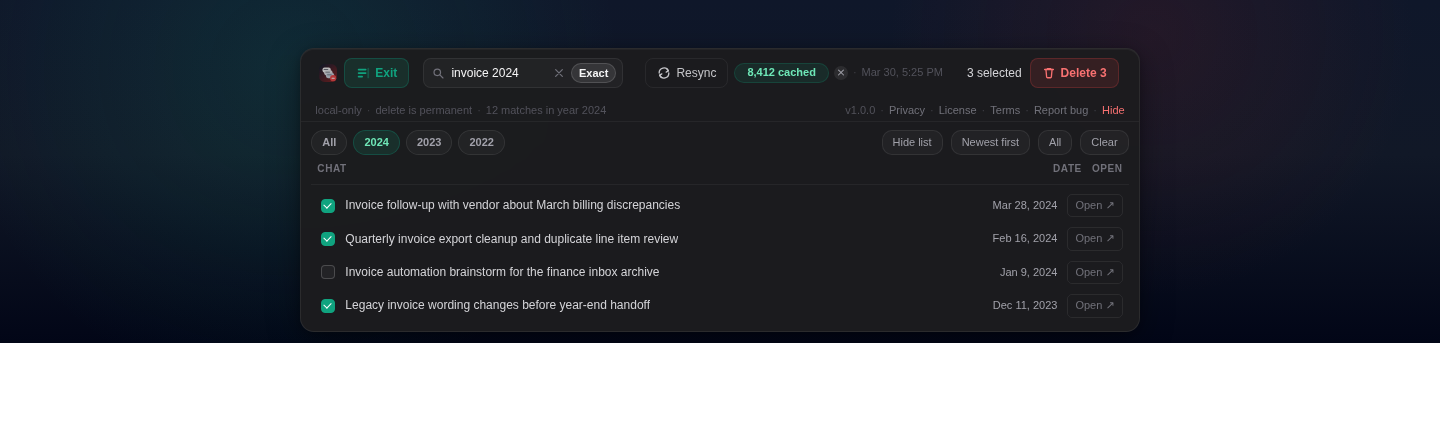
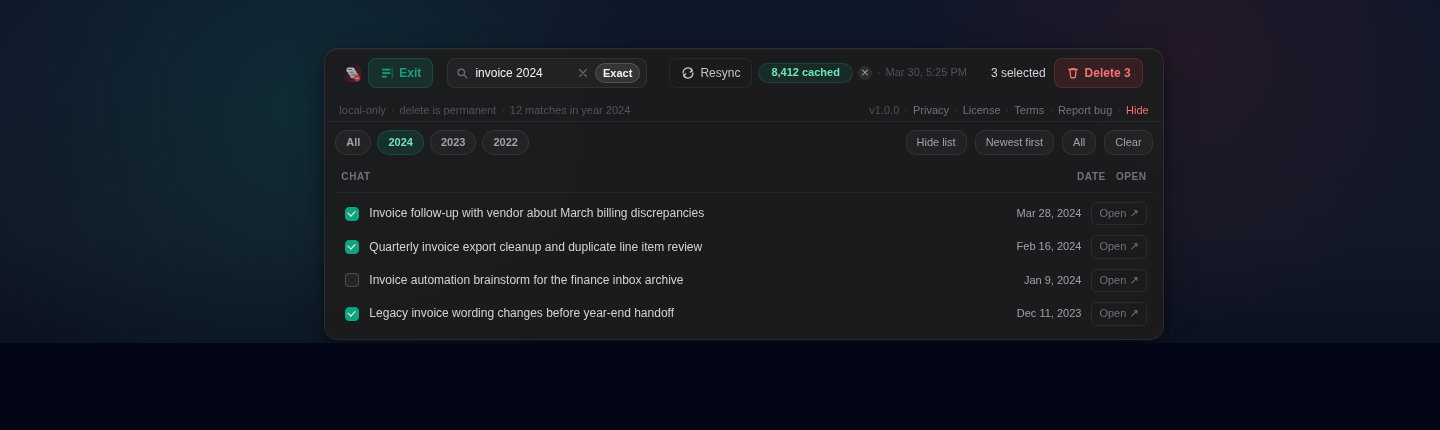
Update toolbar screenshot and enhance styling for improved visual consistency

diff --git a/docs/screenshot-fixtures/toolbar-shot.html b/docs/screenshot-fixtures/toolbar-shot.html
@@ -7,17 +7,26 @@
     <link rel="stylesheet" href="../../styles.css" />
     <style>
       html {
-        height: 100%;
+        width: 1440px;
+        height: 430px;
+        overflow: hidden;
         background:
           radial-gradient(circle at 20% 20%, rgba(16, 163, 127, 0.14), transparent 28%),
           radial-gradient(circle at 80% 10%, rgba(127, 29, 29, 0.18), transparent 22%),
           linear-gradient(180deg, #0f172a 0%, #111827 45%, #020617 100%);
+        background-color: #020617;
       }
 
       body {
         margin: 0;
-        min-height: 100%;
-        background: transparent;
+        width: 1440px;
+        height: 430px;
+        overflow: hidden;
+        background:
+          radial-gradient(circle at 20% 20%, rgba(16, 163, 127, 0.14), transparent 28%),
+          radial-gradient(circle at 80% 10%, rgba(127, 29, 29, 0.18), transparent 22%),
+          linear-gradient(180deg, #0f172a 0%, #111827 45%, #020617 100%);
+        background-color: #020617;
         display: flex;
         align-items: flex-start;
         justify-content: center;
